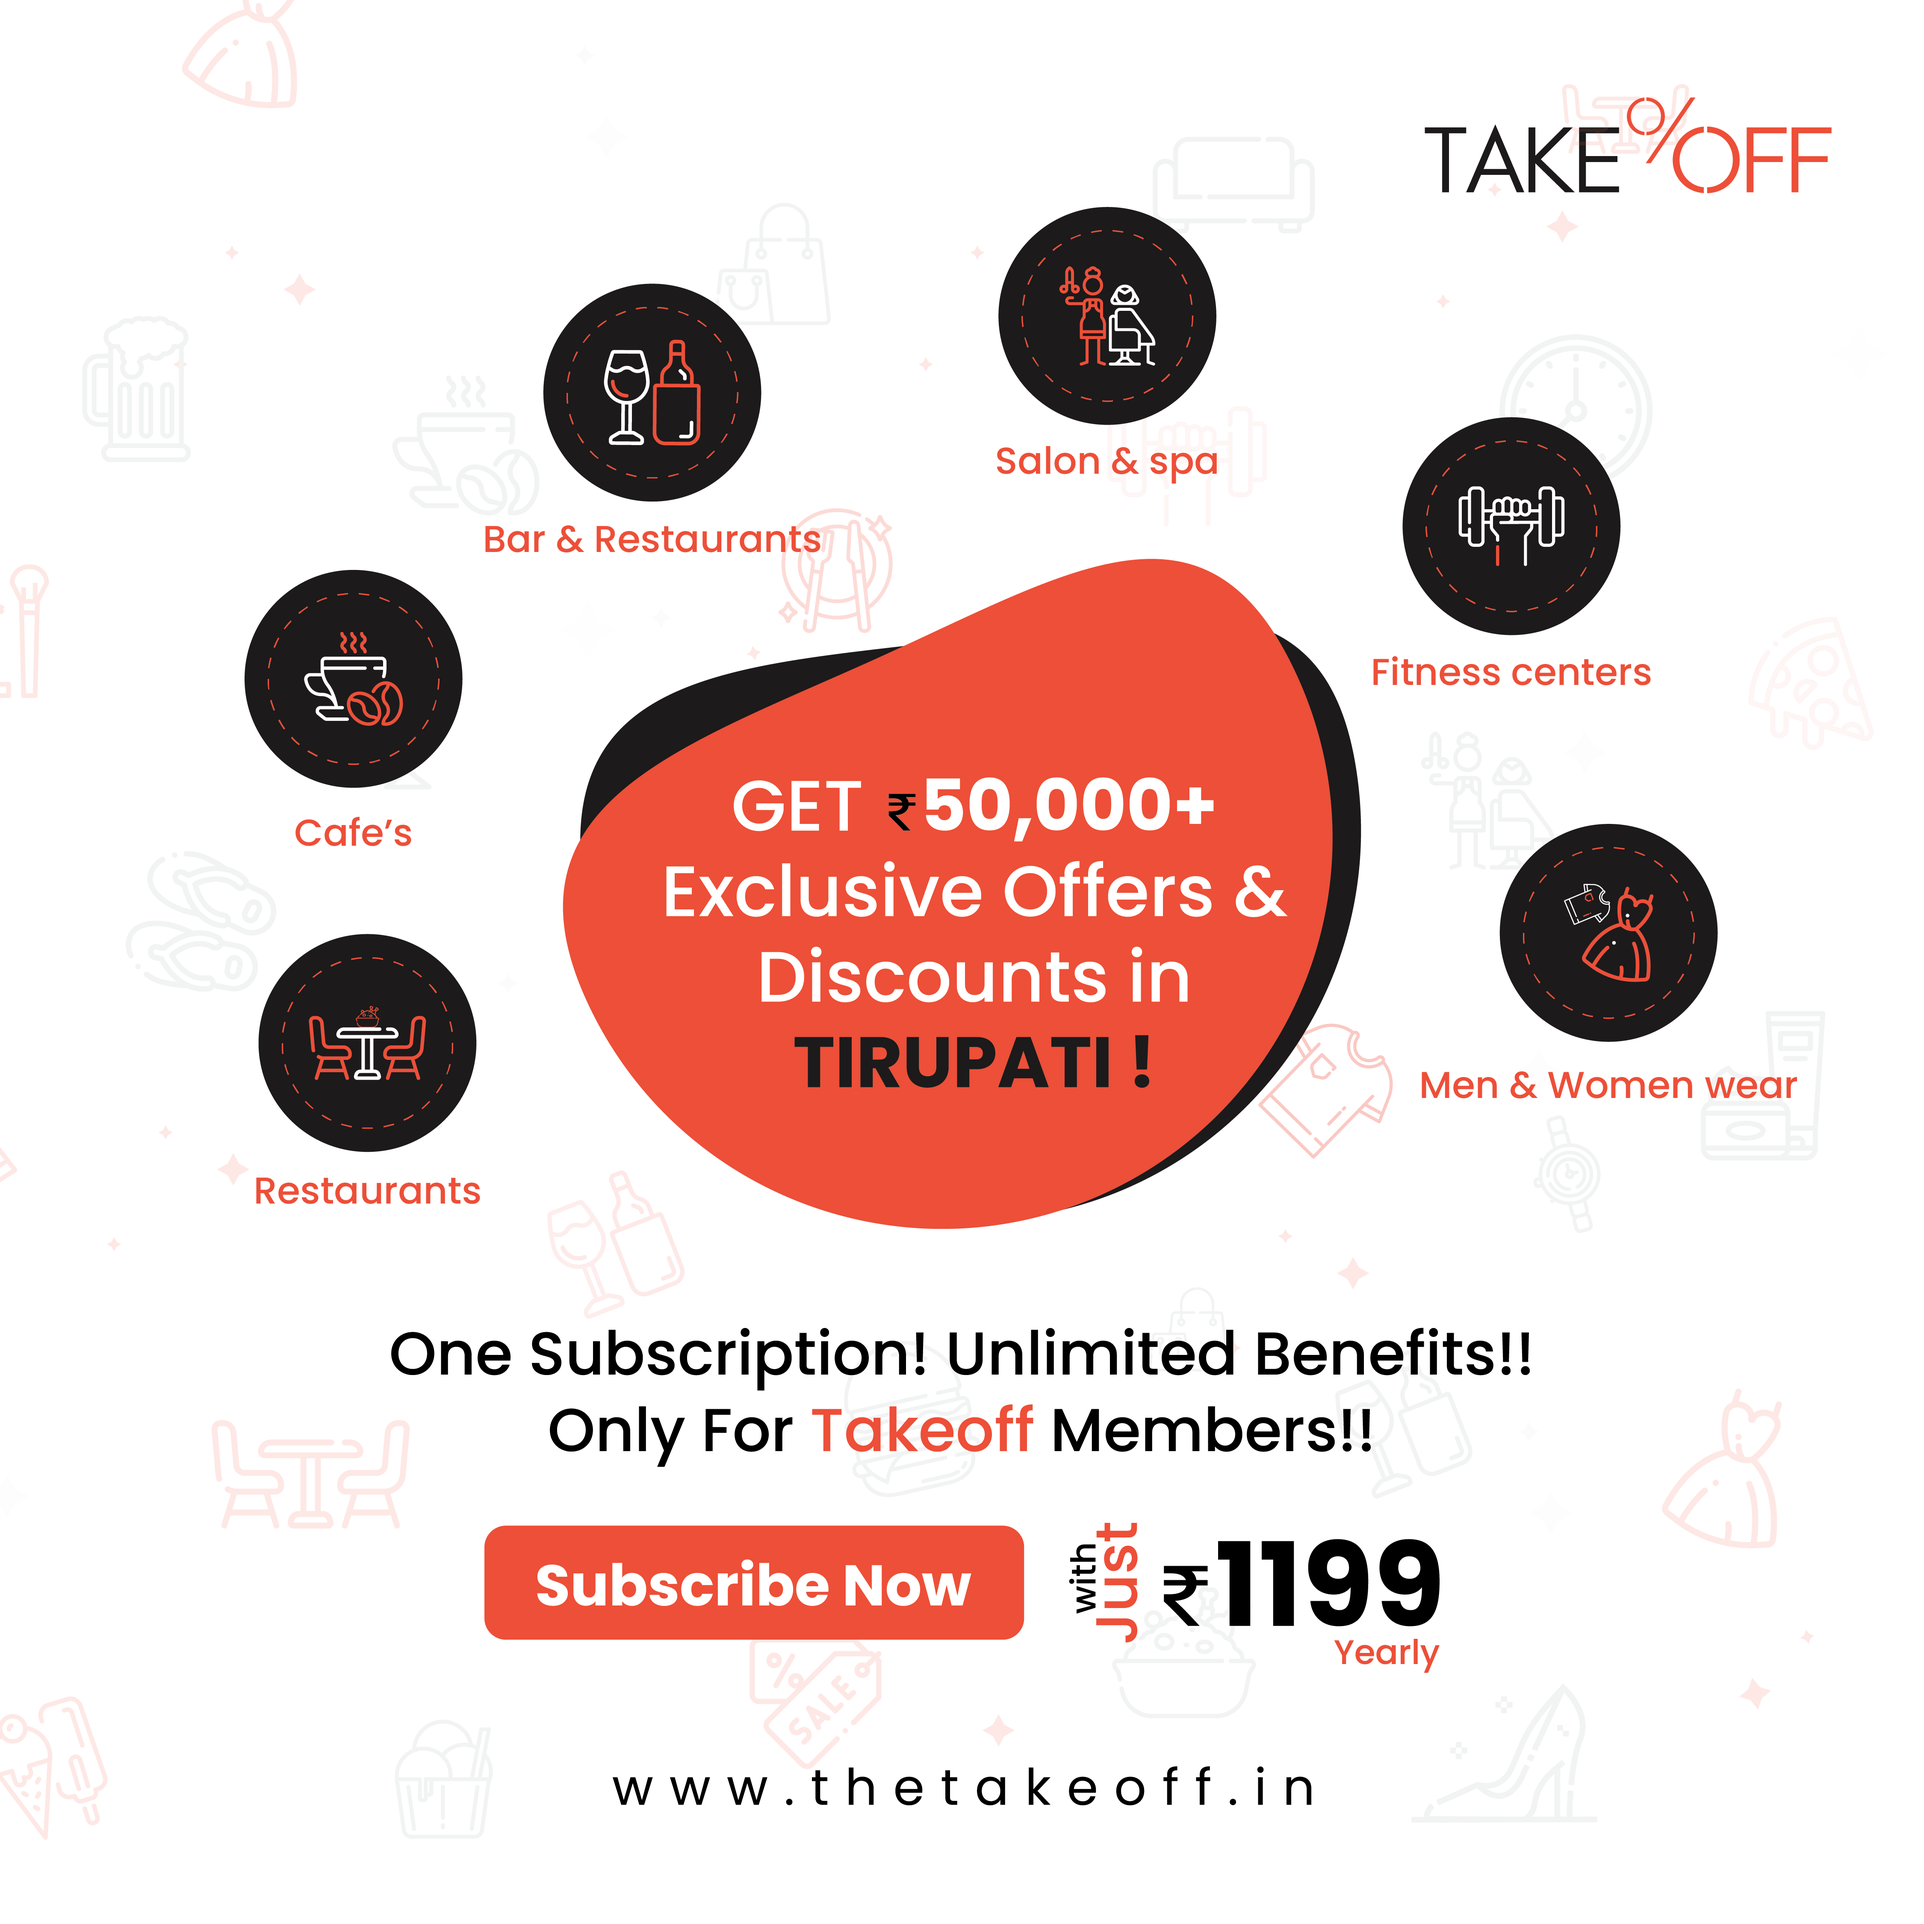
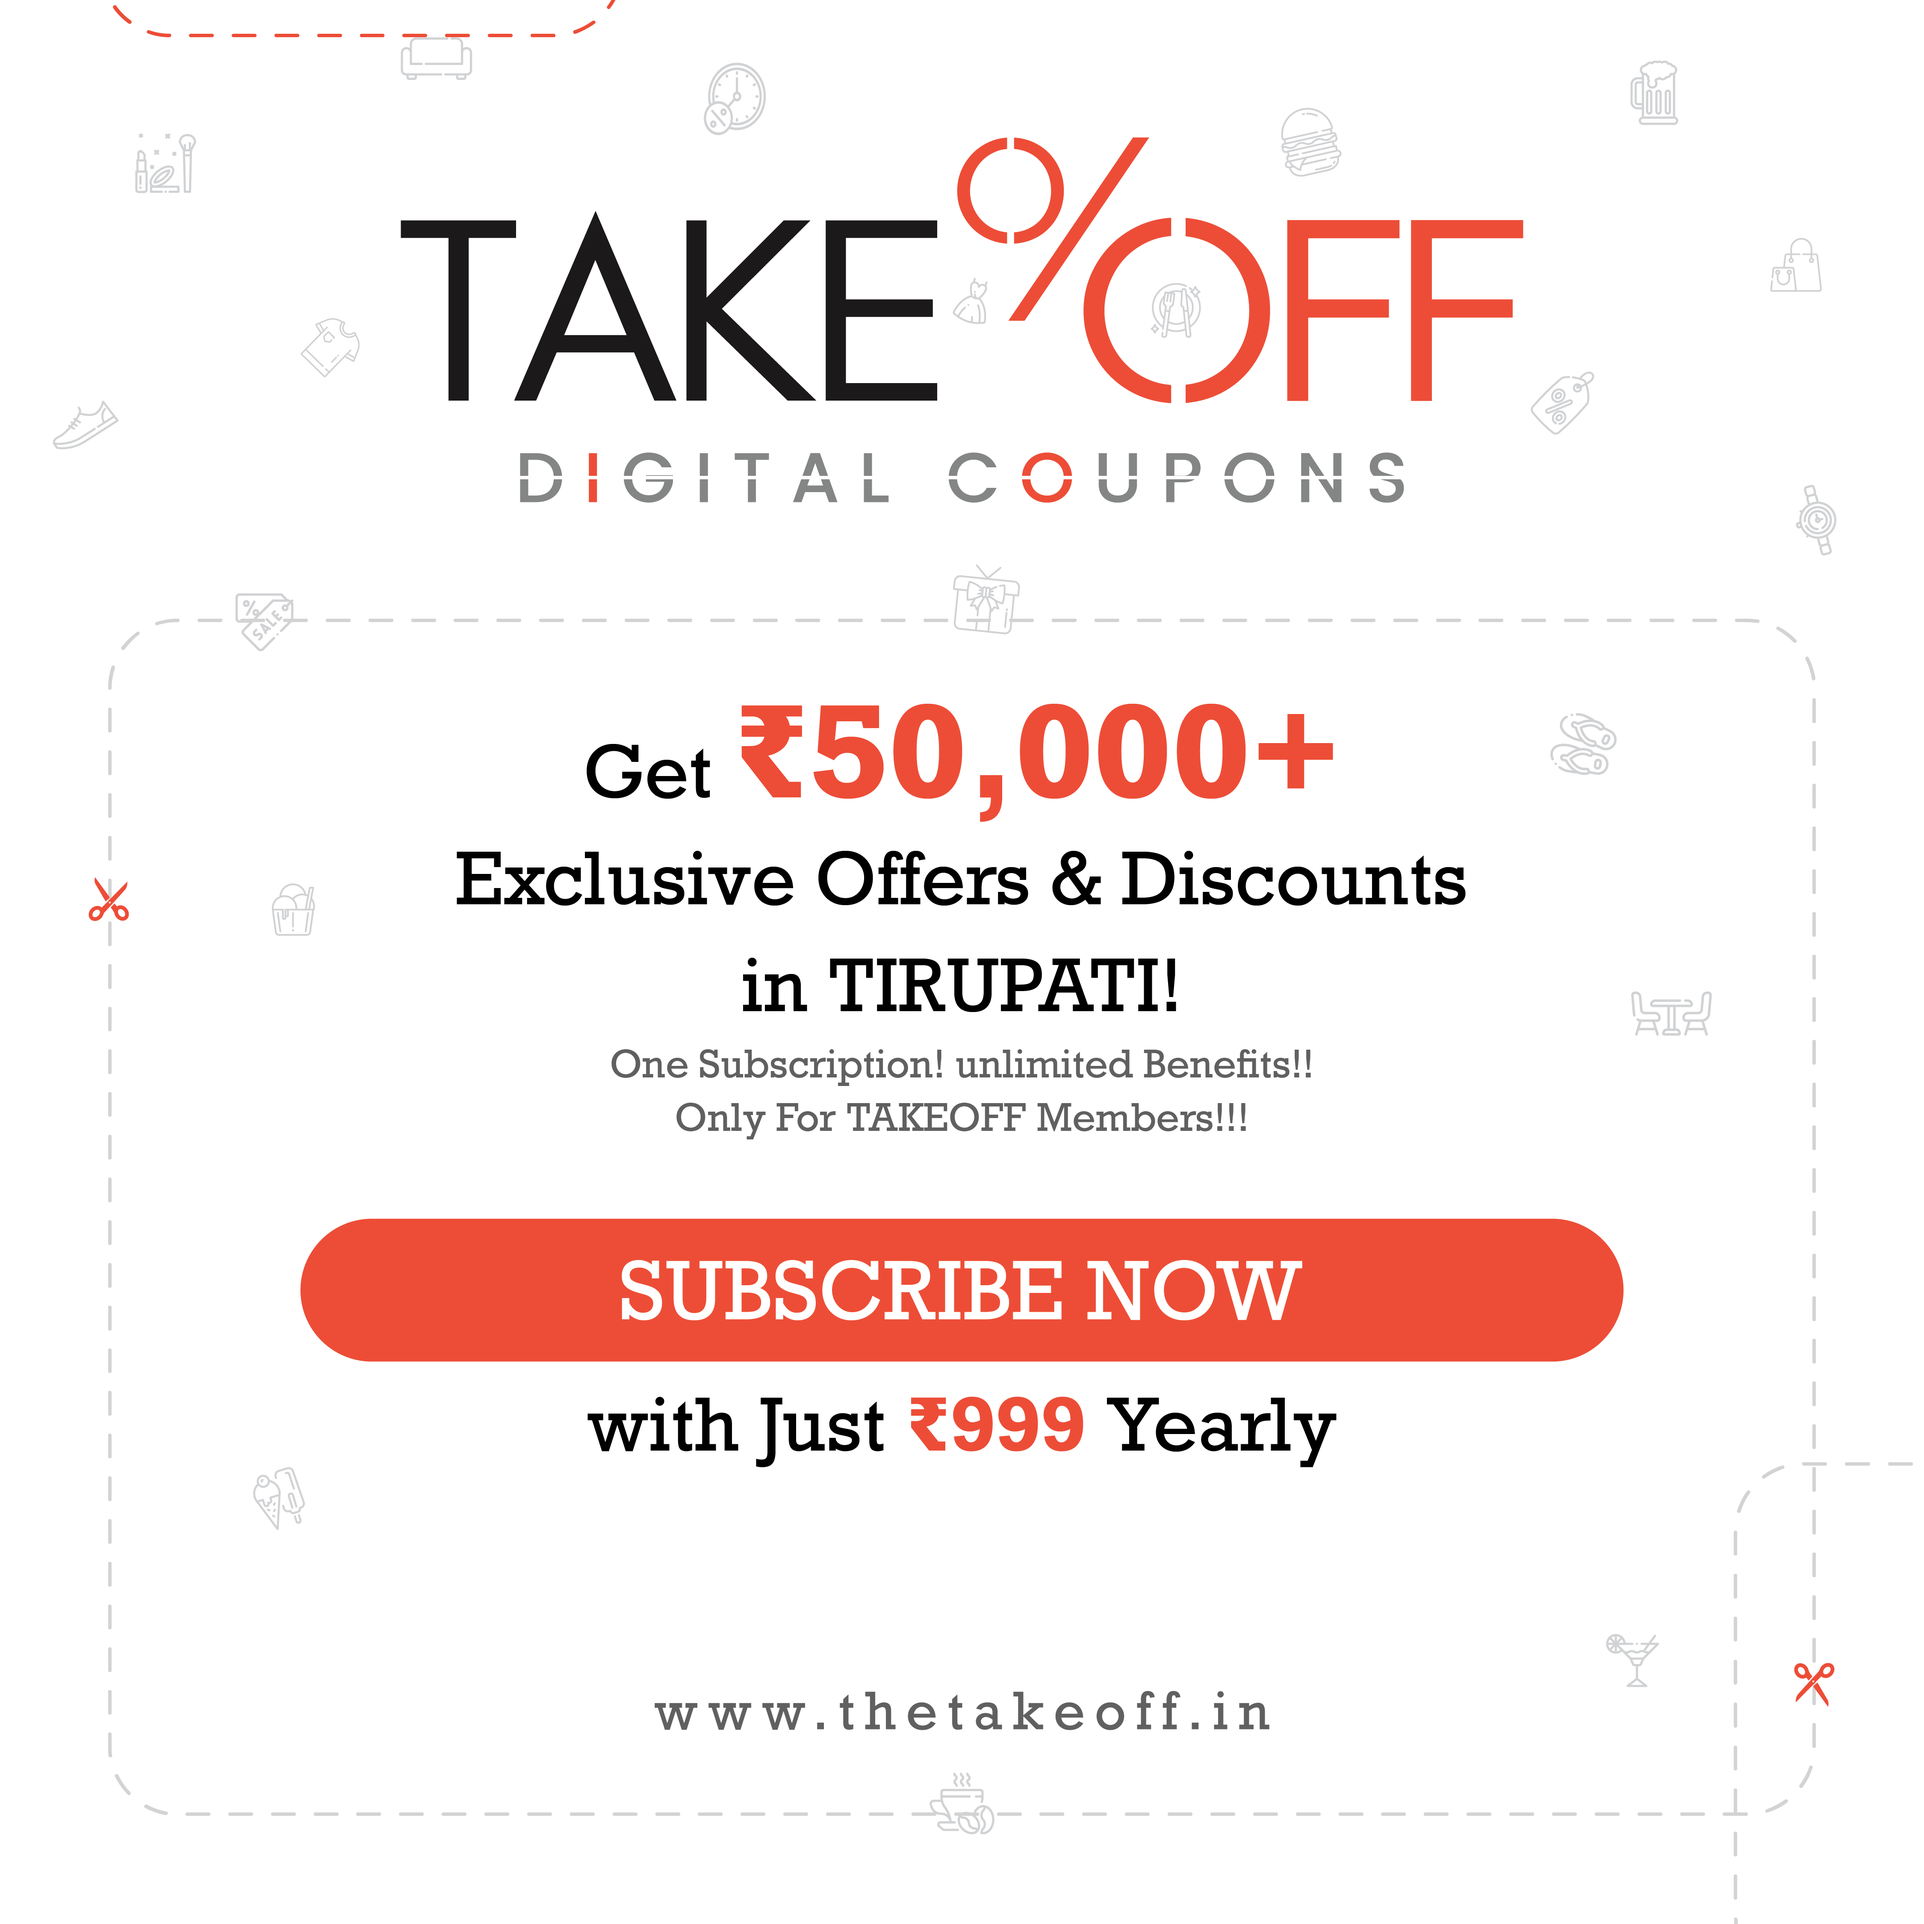
deploy

diff --git a/src/app/component/reference/reference.component.html b/src/app/component/reference/reference.component.html
@@ -1,81 +1,18 @@
-<!-- <div nz-row  style='width:100%' class='container'>
-<div nz-col nzSpan="24" style='text-align: center' style='width:100%'>
-    <a href='https://www.thetakeoff.in/subscribe'>
-        <img src="assets/img/Get_5k_Dis_Nov_01.png" usemap="#image-map" style='width:100%'>
-</a>  
+<div nz-row class='container' style='width:100%'>
+    <div nz-col nzSpan="24" style='text-align: center' style='width:100%'>
 
-<br/>
+        <a href='https://www.thetakeoff.in/subscribe'><img src='assets/img/Get_5k_Dis_Nov_01.png' style='width:100%'></a>
+        <br />
+        <br />
 
-<br/>
-
-</div>
-<div nz-col nzSpan="24" style='text-align: center;font-size: x-large;'>
-    𝗚𝗲𝘁  ₹𝟓𝟎,𝟎𝟎𝟎+ 𝗘𝘅𝗰𝗹𝘂𝘀𝗶𝘃𝗲 𝗢𝗳𝗳𝗲𝗿𝘀 &      <br/>
-    𝗗𝗶𝘀𝗰𝗼𝘂𝗻𝘁𝘀 𝗶𝗻 𝗧𝗜𝗥𝗨𝗣𝗔𝗧𝗜!<br/>
-𝗔𝗰𝗿𝗼𝘀𝘀 𝗠𝘂𝗹𝘁𝗶𝗽𝗹𝗲 𝗖𝗮𝘁𝗲𝗴𝗼𝗿𝗶𝗲𝘀 𝗼𝗻<br/><br/>
-
-𝑅𝑒𝑠𝑡𝑎𝑢𝑟𝑎𝑛𝑡𝑠 | 𝐶𝑎𝑓𝑒’𝑠 | 𝐵𝑎𝑟 & 𝑅𝑒𝑠𝑡𝑎𝑢𝑟𝑎𝑛𝑡𝑠 | 𝑆𝑎𝑙𝑜𝑛 & 𝑆𝑝𝑎’s | 𝐹𝑖𝑡𝑛𝑒𝑠𝑠 𝐶𝑒𝑛𝑡𝑒𝑟𝑠 | 𝑀𝑒𝑛 & 𝑊𝑜𝑚𝑒𝑛 𝑊𝑒𝑎r <br/> 
-and More <br/><br/>
-
-
-
-
-    𝑂𝑛𝑒 𝑆𝑢𝑏𝑠𝑐𝑟𝑖𝑝𝑡𝑖𝑜𝑛! 𝑈𝑛𝑙𝑖𝑚𝑖𝑡𝑒𝑑 𝐵𝑒𝑛𝑒𝑓𝑖𝑡𝑠!! 𝑂𝑛𝑙𝑦 𝐹𝑜𝑟 𝐓𝐀𝐊𝐄 %𝐎𝐅𝐅 𝑀𝑒𝑚𝑏𝑒𝑟𝑠!!! <br/>
-
-    <a nz-button nzType="link" href='https://www.thetakeoff.in/subscribe' nzDanger>*<u><b>Subscribe Now</b></u>*</a> with Just *₹1199 Yearly*  <br/>
-
-<br/>
-<br/>
-
-
-</div>
-
-
-
-</div>
-     -->
-
-
-
-    
-
-     <div nz-row class='container' style='width:100%' style='background-color: #fd6951; color: #1D1A1A'>
-        <div nz-col nzSpan="24" style='text-align: center'>
-            <br/>
-
-    <a href="index.html"  class="logo mr-auto"><img style='max-width:160px' src="assets/img/logo-white.png" alt="" class="img-fluid"></a>
-  
-<br/>
-<br/>
-    <h6>𝗚𝗲𝘁  ₹𝟓𝟎,𝟎𝟎𝟎+ 𝗘𝘅𝗰𝗹𝘂𝘀𝗶𝘃𝗲 𝗢𝗳𝗳𝗲𝗿𝘀 &      <br/>
-        𝗗𝗶𝘀𝗰𝗼𝘂𝗻𝘁𝘀 𝗶𝗻 𝗧𝗜𝗥𝗨𝗣𝗔𝗧𝗜!<br/>
-    𝗔𝗰𝗿𝗼𝘀𝘀 𝗠𝘂𝗹𝘁𝗶𝗽𝗹𝗲 𝗖𝗮𝘁𝗲𝗴𝗼𝗿𝗶𝗲𝘀 𝗼𝗻<br/><br/>
-    
-    𝑅𝑒𝑠𝑡𝑎𝑢𝑟𝑎𝑛𝑡𝑠 | 𝐶𝑎𝑓𝑒’𝑠 | 𝐵𝑎𝑟 & 𝑅𝑒𝑠𝑡𝑎𝑢𝑟𝑎𝑛𝑡𝑠 | 𝑆𝑎𝑙𝑜𝑛 & 𝑆𝑝𝑎’s | 𝐹𝑖𝑡𝑛𝑒𝑠𝑠 𝐶𝑒𝑛𝑡𝑒𝑟𝑠 | 𝑀𝑒𝑛 & 𝑊𝑜𝑚𝑒𝑛 𝑊𝑒𝑎r <br/> 
-    and More <br/><br/></h6>
-    
-   
     </div>
 
     <div nz-col nzSpan="24" style='text-align: center' style='width:100%'>
 
-        <img src='assets/img/Get_5k_Dis_Nov_01.png' style='width:100%'>
-        <br/>
-        <br/>
+      <a>  <button nz-button nzType="primary" nzShape="round" (click)='go()' nzDanger style='width:100%; height: 60px'> <h1 style='color:white'>SUBSCRIBE NOW</h1> </button> &nbsp;
+      </a>
 
     </div>
 
-    </div>
 
- <div nz-row class='container' style='width:100%' style='background-color: #1D1A1A; color: #EC4D37'>
-    <div nz-col nzSpan="24" style='text-align: center'>
-<b>
-    𝑂𝑛𝑒 𝑆𝑢𝑏𝑠𝑐𝑟𝑖𝑝𝑡𝑖𝑜𝑛! 𝑈𝑛𝑙𝑖𝑚𝑖𝑡𝑒𝑑 𝐵𝑒𝑛𝑒𝑓𝑖𝑡𝑠!! 𝑂𝑛𝑙𝑦 𝐹𝑜𝑟 𝐓𝐀𝐊𝐄 %𝐎𝐅𝐅 𝑀𝑒𝑚𝑏𝑒𝑟𝑠!!! <br/>
-
-    <a nz-button nzType="link" href='https://www.thetakeoff.in/subscribe' style='color:#EC4D37'>
-        <u><b>Subscribe Now with Just *₹1199 Yearly</b></u></a>  <br/>
-
-
-</b>
-        </div>
-        </div>
+</div>

diff --git a/src/app/component/main/main.component.html b/src/app/component/main/main.component.html
@@ -388,7 +388,7 @@
       <div class="col-lg-4 mt-4 mt-lg-0" data-aos="fade-up" data-aos-delay="200">
         <div class="box featured">
           <h3>Exclusive Plan</h3>
-          <h4><sup>Rs.</sup>1199<span>per Year</span></h4>
+          <h4><sup>Rs.</sup><s>1199</s> &nbsp; 999 <span>per Year</span></h4>
           <ul>
             <li><i class="bx bx-check"></i> Complimentary Coupons</li>
             <li><i class="bx bx-check"></i> Discount Coupons</li>

diff --git a/src/app/component/subscription/subscription.component.html b/src/app/component/subscription/subscription.component.html
@@ -196,7 +196,7 @@
                 !(profession.trim().length > 0) ||
                 !(gender.trim().length > 0) || 
                 !(city.trim().length > 0) || this.paying" 
-                nzDanger (click)='payment()'>Pay Rs. 1199</button>
+                nzDanger (click)='payment()'>Pay Rs. <s>1199</s> &nbsp; 999 </button>
             </div>
 
         </div>

diff --git a/src/app/component/subscription/subscription.component.ts b/src/app/component/subscription/subscription.component.ts
@@ -207,7 +207,8 @@ payment()
    // "key": "rzp_test_WJFhmfMmFRxETB", // Enter the Key ID generated from the Dashboard
    "key": "rzp_live_nWA6UVrzTQFr9W",
    // "amount": "100", 
-   "amount" : 119900,
+   // "amount" : 119900,
+    "amount" : 99900,
     "currency": "INR",
     "name": "TAKEOFF",
     "description": "Subscription to TAKEOFF",

diff --git a/src/app/component/reference/reference.component.ts b/src/app/component/reference/reference.component.ts
@@ -12,4 +12,9 @@ export class ReferenceComponent implements OnInit {
   ngOnInit(): void {
   }
 
+  go()
+  {
+    document.location.replace('https://www.thetakeoff.in/subscribe');
+  }
+
 }
